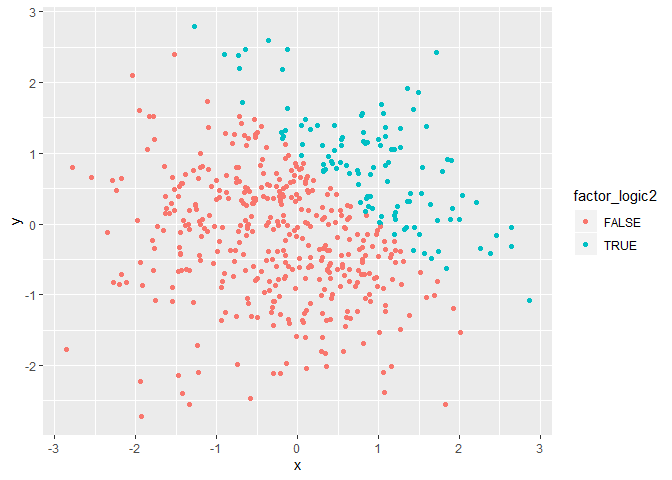
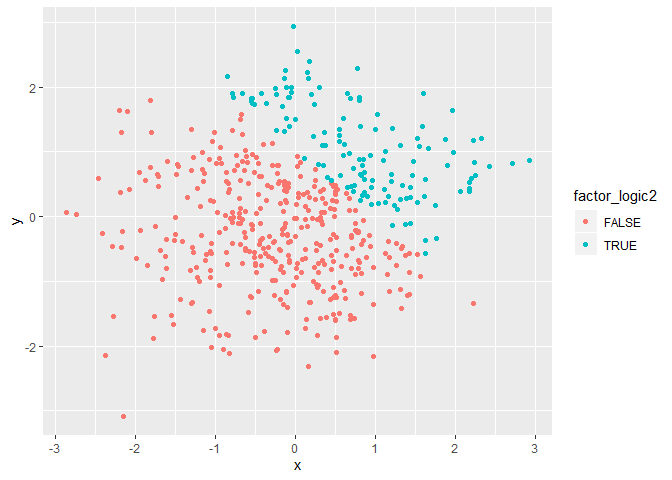
Added comments about coercion

diff --git a/p8105_hw1_ha2546.md b/p8105_hw1_ha2546.md
@@ -25,13 +25,13 @@ prob1_df = tibble(
 mean(pull(prob1_df, vec_sample))
 ```
 
-    ## [1] 0.2251943
+    ## [1] 0.1976154
 
 ``` r
 mean(pull(prob1_df, vec_logic))
 ```
 
-    ## [1] 0.75
+    ## [1] 0.625
 
 ``` r
 mean(pull(prob1_df, vec_char))
@@ -75,14 +75,16 @@ as.numeric(pull(prob1_df, vec_factor))
   - **Results**
 
 It was observed that we were unable to convert character vector to
-numeric. We get the warning saying that “NAS introduced by coercion”
-which has happened because we are passing character strings where the
-function requires numeric, and this explains why we were unable to take
-the mean for character vector in previous part.However, logical and
-factor vectors were converted to numeric form. We also can conclude that
-we cannot take the mean of factor vectors as they are, but we are able
-to convert them to numeric form and then take the mean or do other
-calculations with them.
+numeric. We get the warning saying that “NAS introduced by coercion”.
+Coercion happens when we call a function but pass a variable by wrong
+type, R tries to coerce values to a different type, so that the function
+works. In this case, it happened because we are passing character
+strings where the function requires numeric, and this explains why we
+were unable to take the mean for character vector in previous
+part.However, logical and factor vectors were converted to numeric form.
+We also can conclude that we cannot take the mean of factor vectors as
+they are, but we are able to convert them to numeric form and then take
+the mean or do other calculations with them.
 
 ## 1-3
 
@@ -96,8 +98,9 @@ factor(factor\_logic), and multiplied the random sample by the result
 and saved it as factor\_logic\_calc1. Then, I used the logical vector
 that had been transformed to factor(factor\_logic), and multiplied it by
 random sample. I saved the variables this time so that I can see the
-results altogether in the output, and because I needed each in the step
-after that.
+results altogether in the output, because I wanted to include them in
+this explanation to make my answer more clear, and because I needed each
+in the step after that.
 
 ``` r
 num_logic = as.numeric(pull(prob1_df, vec_logic))
@@ -112,14 +115,14 @@ factor_logic_calc2 = pull(prob1_df, vec_sample) * num_factor_logic
 num_logic_calc
 ```
 
-    ## [1] 0.89331893 0.88631375 0.00000000 0.00000000 0.60108353 0.02825243
-    ## [7] 2.73667452 0.23013779
+    ## [1] 0.0000000 2.0573820 1.0248124 0.5591386 0.0000000 0.0000000 0.1070797
+    ## [8] 0.4946760
 
 ``` r
 factor_logic
 ```
 
-    ## [1] TRUE  TRUE  FALSE FALSE TRUE  TRUE  TRUE  TRUE 
+    ## [1] FALSE TRUE  TRUE  TRUE  FALSE FALSE TRUE  TRUE 
     ## Levels: FALSE TRUE
 
 ``` r
@@ -132,14 +135,14 @@ factor_logic_calc1
 num_factor_logic
 ```
 
-    ## [1] 2 2 1 1 2 2 2 2
+    ## [1] 1 2 2 2 1 1 2 2
 
 ``` r
 factor_logic_calc2
 ```
 
-    ## [1]  1.78663786  1.77262751 -2.74057399 -0.83365256  1.20216705  0.05650485
-    ## [7]  5.47334903  0.46027557
+    ## [1] -0.2033385  4.1147641  2.0496247  1.1182772 -1.8849313 -0.5738954
+    ## [7]  0.2141593  0.9893520
 
   - **Results**
 
@@ -171,9 +174,9 @@ prob2_df = tibble(
 ```
 
 The size of my dataset for problem 2 (named prob2\_df) is 500, 5; which
-means it has 500 rows and 5columns. The mean of x is -0.0198711, its
-median is -0.0125469, and its standard deviation is 1.0211926. The
-proportion of cases for which x + y \> 1 is 0.226
+means it has 500 rows and 5columns. The mean of x is -0.0103374, its
+median is -0.0163523, and its standard deviation is 1.0031949. The
+proportion of cases for which x + y \> 1 is 0.258
 
 ## 2.2
 
